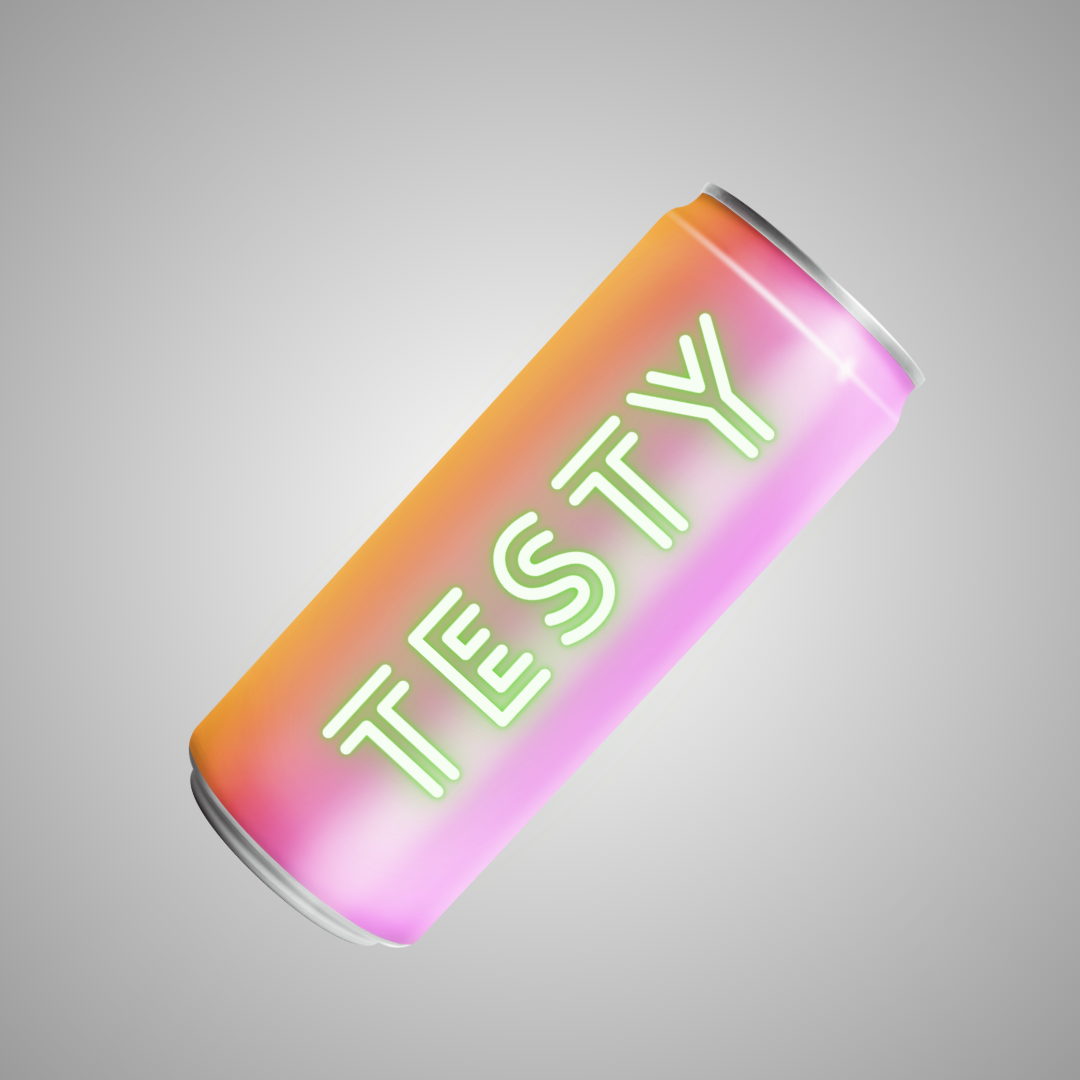
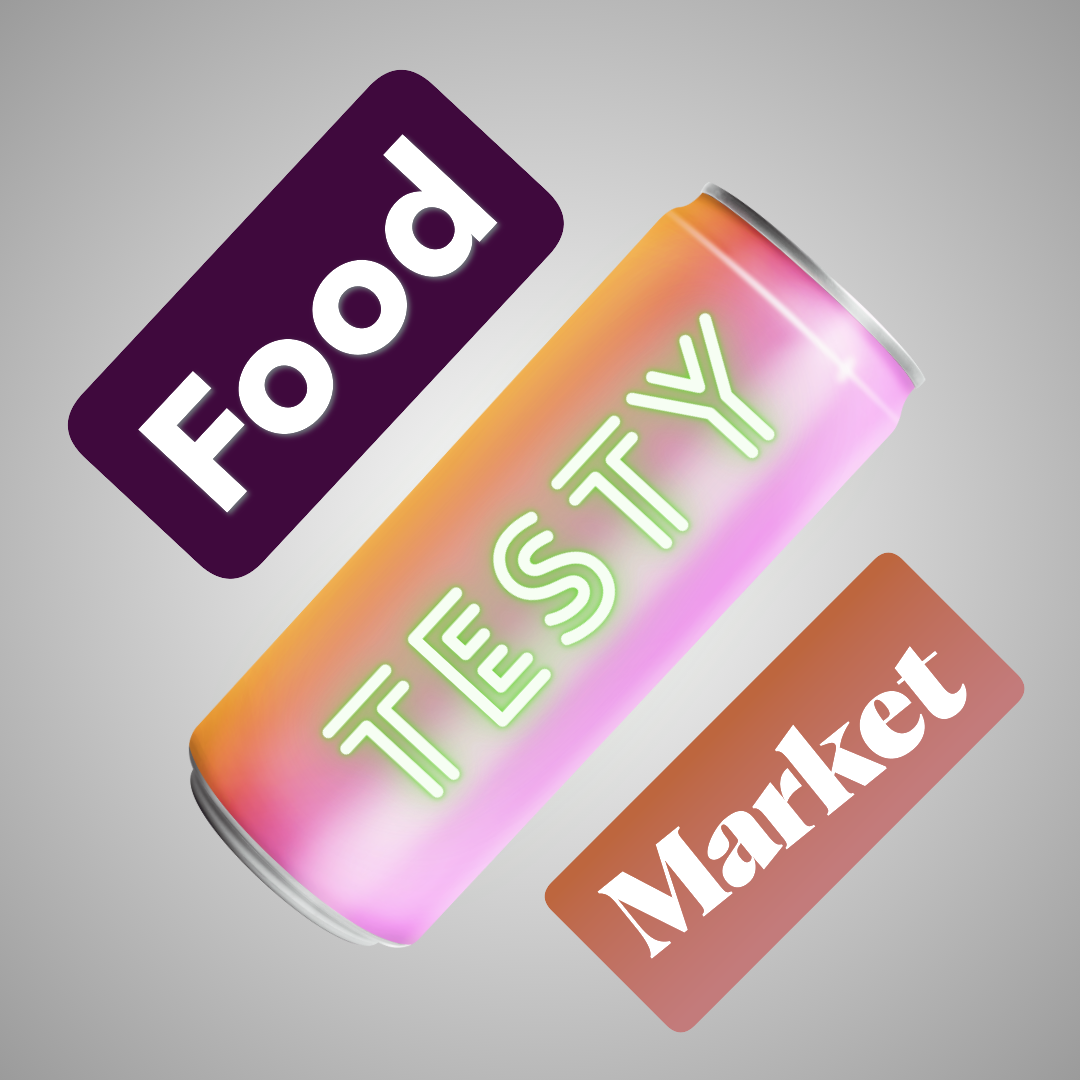
Foodmart add

Changed region(s): [[0.0611, 0.0611, 0.5194, 0.55], [0.4889, 0.4889, 0.9472, 0.9778]]

diff --git a/index.html b/index.html
@@ -369,7 +369,7 @@
                             <img src="./img/portfolio/Img-b/Can.png" alt="" class="img-fluid">
                             <div class="portfolio-link">
                                 <a href="./img/portfolio/foodmart.png" data-gallary="portfolioGallary" class="portfolio-lightbox" title="FoodMart"><i class="bx bx-plus"></i></a>
-                                <a href="./Projects/FoodBazaar/index.html" title="FoodBazaar" target="_blank"><i class="bx bx-link"></i></a>
+                                <a href="https://acmfood-bazaar.vercel.app/" title="FoodBazaar" target="_blank"><i class="bx bx-link"></i></a>
                             </div>
                         </div>
                     </div>
